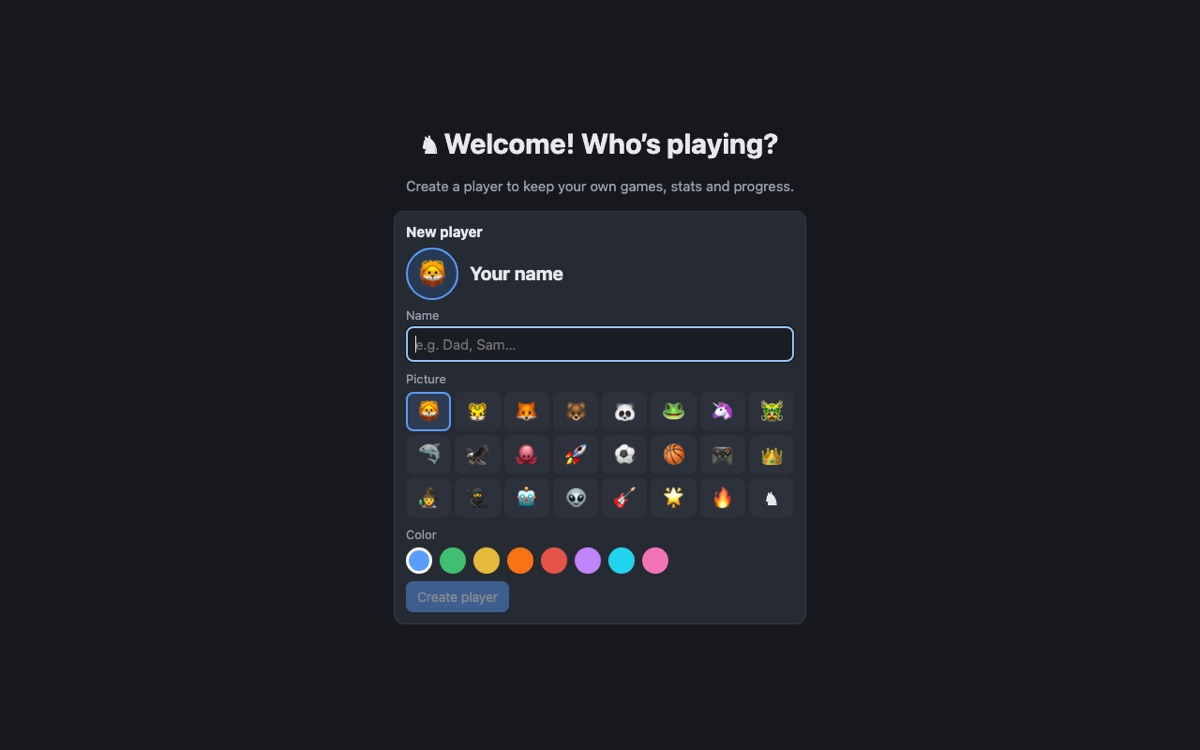
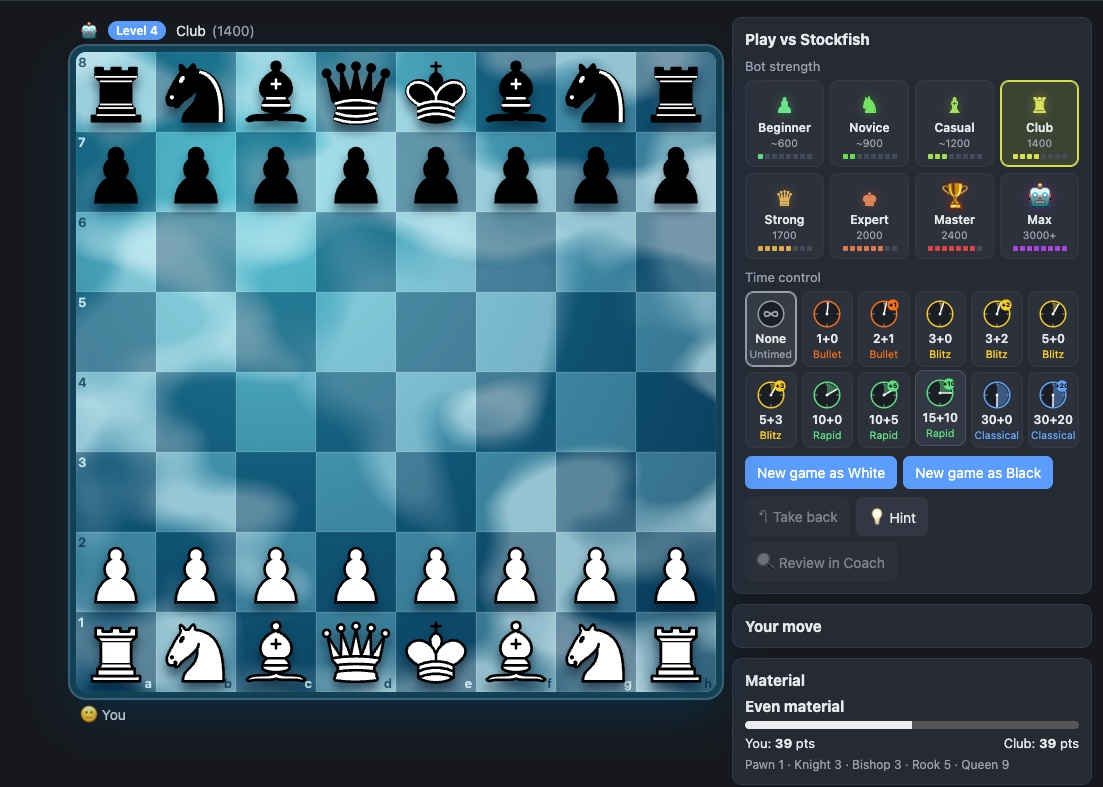
New chess and Scene Translator images; fingerprint static files
Chess Trainer now shows the board, and Scene Translator is shown on a
phone. Static files get an ETag computed at startup and are revalidated
on each visit, so updated screenshots appear right after a deploy.

diff --git a/internal/server/server.go b/internal/server/server.go
@@ -2,10 +2,13 @@
 package server
 
 import (
+	"crypto/sha256"
+	"encoding/hex"
 	"encoding/json"
 	"io/fs"
 	"log"
 	"net/http"
+	"strings"
 	"time"
 
 	"github.com/ryanbehrens/software-portfolio/internal/config"
@@ -32,8 +35,39 @@ func (s *Server) Handler() http.Handler {
 	mux.HandleFunc("GET /healthz", func(w http.ResponseWriter, _ *http.Request) {
 		w.Write([]byte("ok"))
 	})
-	mux.Handle("GET /", staticCache(http.FileServerFS(s.static)))
+	mux.Handle("GET /", withETags(s.static, http.FileServerFS(s.static)))
 	return securityHeaders(mux)
+}
+
+// withETags fingerprints every static file once at startup. Browsers keep
+// their copy but check it on each visit, and the file server answers
+// "304 Not Modified" when the fingerprint still matches. So a new screenshot
+// shows up right after a deploy, without re-downloading unchanged files.
+func withETags(files fs.FS, next http.Handler) http.Handler {
+	tags := map[string]string{}
+	fs.WalkDir(files, ".", func(path string, d fs.DirEntry, err error) error {
+		if err != nil || d.IsDir() {
+			return nil
+		}
+		data, err := fs.ReadFile(files, path)
+		if err != nil {
+			return nil
+		}
+		sum := sha256.Sum256(data)
+		tags["/"+path] = `"` + hex.EncodeToString(sum[:8]) + `"`
+		return nil
+	})
+	return http.HandlerFunc(func(w http.ResponseWriter, r *http.Request) {
+		p := r.URL.Path
+		if strings.HasSuffix(p, "/") {
+			p += "index.html"
+		}
+		if tag, ok := tags[p]; ok {
+			w.Header().Set("ETag", tag)
+		}
+		w.Header().Set("Cache-Control", "no-cache")
+		next.ServeHTTP(w, r)
+	})
 }
 
 type appView struct {
@@ -157,17 +191,6 @@ func securityHeaders(next http.Handler) http.Handler {
 		h.Set("X-Content-Type-Options", "nosniff")
 		h.Set("Referrer-Policy", "strict-origin-when-cross-origin")
 		h.Set("X-Frame-Options", "DENY")
-		next.ServeHTTP(w, r)
-	})
-}
-
-func staticCache(next http.Handler) http.Handler {
-	return http.HandlerFunc(func(w http.ResponseWriter, r *http.Request) {
-		if len(r.URL.Path) > 5 && r.URL.Path[:5] == "/img/" {
-			w.Header().Set("Cache-Control", "public, max-age=86400")
-		} else {
-			w.Header().Set("Cache-Control", "no-cache")
-		}
 		next.ServeHTTP(w, r)
 	})
 }

diff --git a/internal/server/server_test.go b/internal/server/server_test.go
@@ -121,4 +121,20 @@ func TestStaticPageAndHeaders(t *testing.T) {
 	if resp.Header.Get("X-Content-Type-Options") != "nosniff" {
 		t.Error("security headers should be set")
 	}
+
+	// A repeat visit with the same fingerprint gets a cheap 304, not the file again.
+	etag := resp.Header.Get("ETag")
+	if etag == "" {
+		t.Fatal("static files should carry an ETag")
+	}
+	req, _ := http.NewRequest(http.MethodGet, srv.URL+"/", nil)
+	req.Header.Set("If-None-Match", etag)
+	again, err := http.DefaultClient.Do(req)
+	if err != nil {
+		t.Fatal(err)
+	}
+	again.Body.Close()
+	if again.StatusCode != http.StatusNotModified {
+		t.Errorf("unchanged file: got status %d, want 304", again.StatusCode)
+	}
 }
